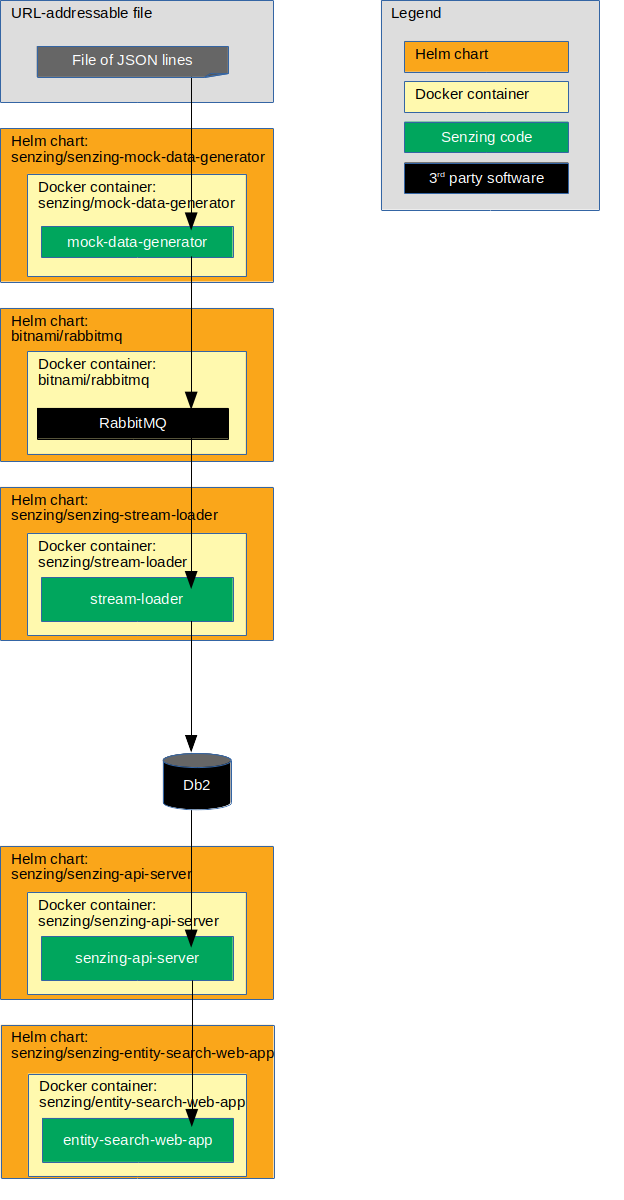
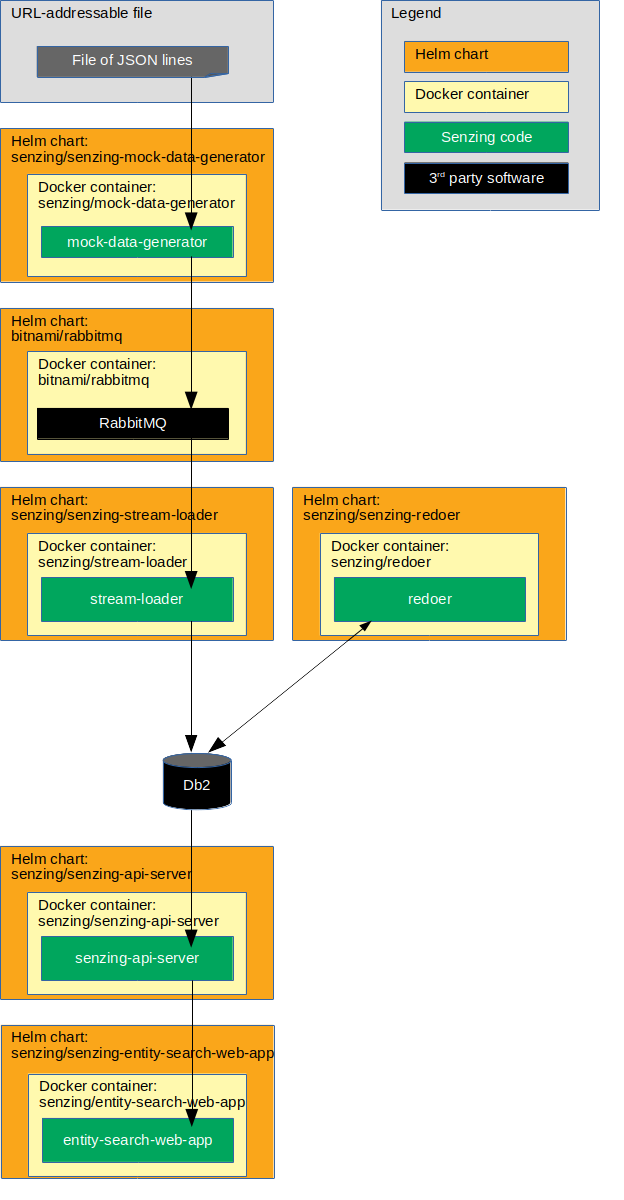
#8 Add redoer

Changed region(s): [[0.4567, 0.4008, 0.9135, 0.555], [0.3349, 0.6167, 0.3654, 0.6475]]

diff --git a/docs/helm-rabbitmq-db2/README.md b/docs/helm-rabbitmq-db2/README.md
@@ -1102,6 +1102,7 @@ Feel free to submit a Pull Request for change.
     ```console
     helm delete ${HELM_TLS} --purge ${DEMO_PREFIX}-senzing-entity-search-web-app
     helm delete ${HELM_TLS} --purge ${DEMO_PREFIX}-senzing-api-server
+    helm delete ${HELM_TLS} --purge ${DEMO_PREFIX}-senzing-redoer
     helm delete ${HELM_TLS} --purge ${DEMO_PREFIX}-senzing-stream-loader
     helm delete ${HELM_TLS} --purge ${DEMO_PREFIX}-senzing-configurator
     helm delete ${HELM_TLS} --purge ${DEMO_PREFIX}-senzing-init-container
